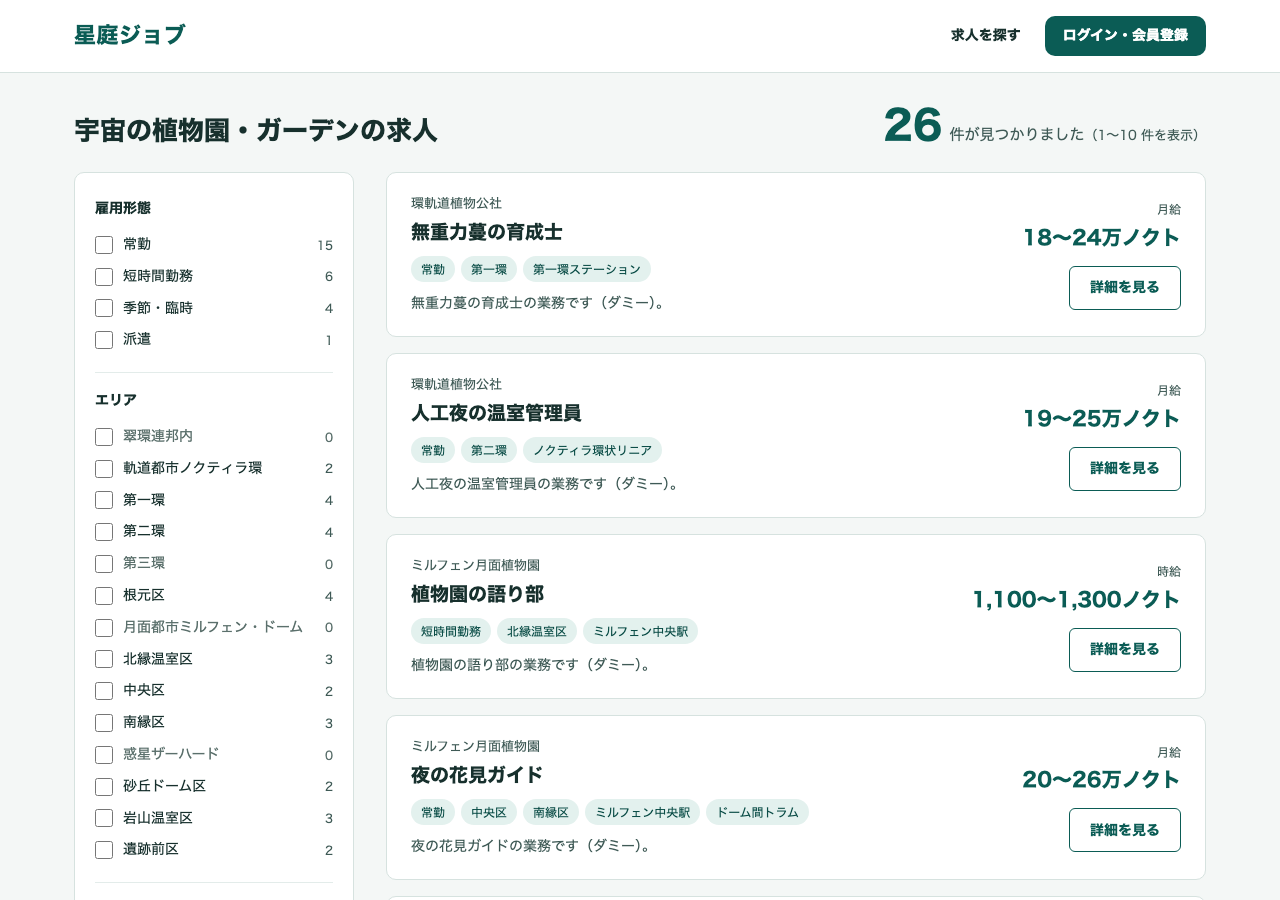
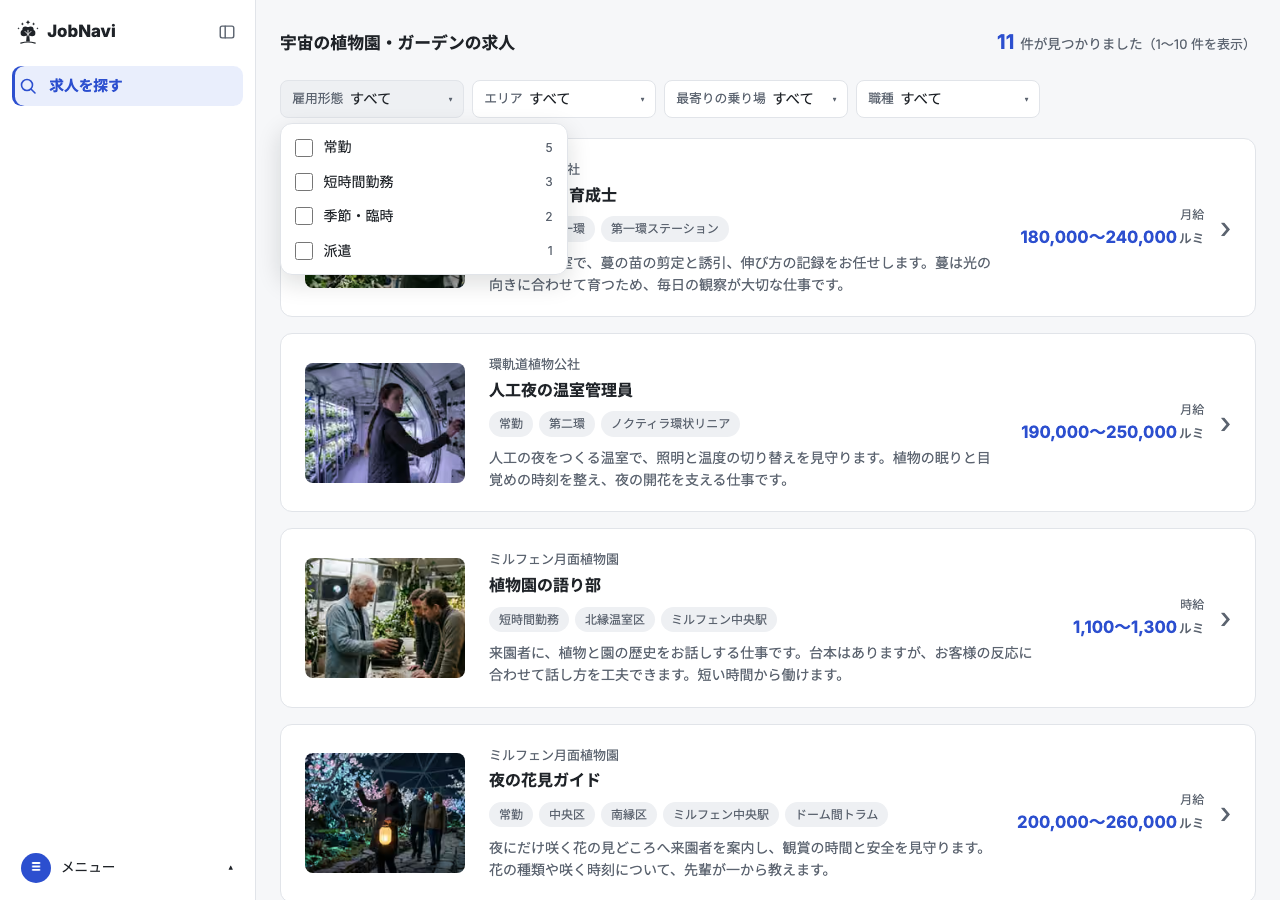
docs(readme): show light and dark screenshots
Use a picture element with a dark variant, as DocuNavi does, and retake the
search and detail screenshots with the new list.

diff --git a/README.md b/README.md
@@ -8,7 +8,7 @@ JobNavi (星庭ジョブ) is a fictional job board for botanical gardens on the 
 
 | Job search (with counts per filter) | Job detail (with images) |
 |---|---|
-| ![Job search](docs/images/search.png) | ![Job detail](docs/images/detail.png) |
+| <a href="docs/images/search.png"><picture><source media="(prefers-color-scheme: dark)" srcset="docs/images/search-dark.png"><img alt="Job search: filter chips with a count for each option, and job cards with a thumbnail, tags and salary" src="docs/images/search.png"></picture></a> | <a href="docs/images/detail.png"><picture><source media="(prefers-color-scheme: dark)" srcset="docs/images/detail-dark.png"><img alt="Job detail: the hero image, a gallery and the job's conditions" src="docs/images/detail.png"></picture></a> |
 
 ## Features
 

diff --git a/README.ja.md b/README.ja.md
@@ -8,7 +8,7 @@
 
 | 求人検索（条件ごとの件数つき） | 求人の詳細（画像つき） |
 |---|---|
-| ![求人検索](docs/images/search.png) | ![求人の詳細](docs/images/detail.png) |
+| <a href="docs/images/search.png"><picture><source media="(prefers-color-scheme: dark)" srcset="docs/images/search-dark.png"><img alt="求人検索。条件のチップ（選択肢ごとの件数つき）と、サムネ・タグ・給与のある求人カード" src="docs/images/search.png"></picture></a> | <a href="docs/images/detail.png"><picture><source media="(prefers-color-scheme: dark)" srcset="docs/images/detail-dark.png"><img alt="求人の詳細。ヒーロー画像、ギャラリー、募集の条件" src="docs/images/detail.png"></picture></a> |
 
 ## 特徴
 
